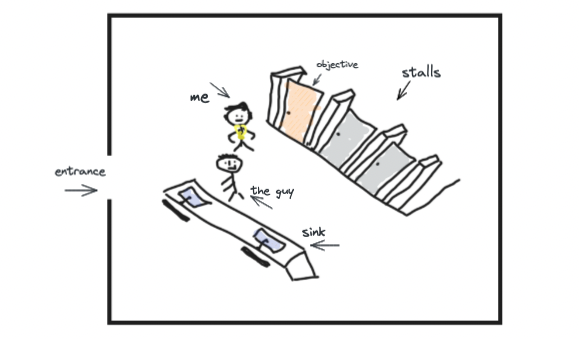
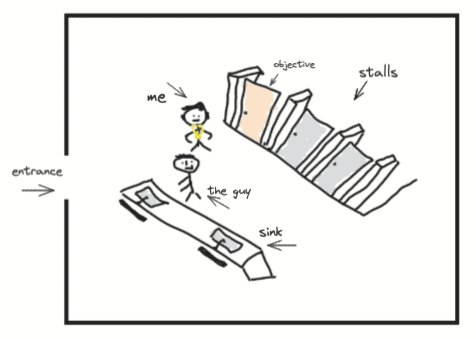
fix the size of diagram image in a normal encounter post

diff --git a/content/blog/a-normal-encounter/index.md b/content/blog/a-normal-encounter/index.md
@@ -12,7 +12,10 @@ Now, I was caught off guard. When I was getting near the bathroom I had one obje
 
 As a consequence, I responded with a rushed “hi” immediately right before I finally recognize him. He’s the one working in the cafe. He’s one of the barista guys. He’s the one making my coffee. But at this point I was already walking and I had passed him a few inches where it would position him right behind me and it was too late to make further interactions. Here’s a quick diagram to help you visualize the situation:
 
-![the diagram](diagram.png "the diagram")
+<figure>
+    <img src="diagram.png" alt="the diagram">
+    <figcaption>the diagram</figcaption>
+</figure>
 
 As soon as I went inside the stall and started unzipping my pants, and as he was washing his hands, a thought appeared in my head out of nowhere. Is he thinking about me right now? Is he thinking to himself that this guy is going to lose liquids right now so I bet that he’s going to come here and order some coffee or water from us? 
 
